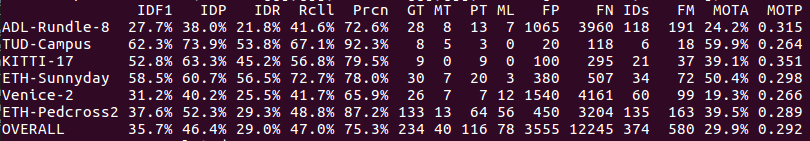
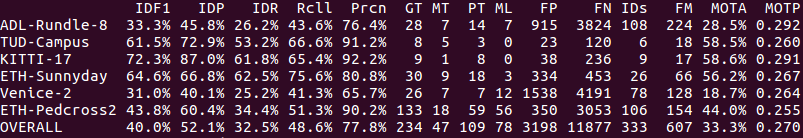
update README and input sequence

diff --git a/src/main.cpp b/src/main.cpp
@@ -211,16 +211,11 @@ int main(int argc, const char *argv[]) {
         enable_display_flag = true;
     }
 
-// TODO: Figure out why KITTI-13 will crash
-
-//    std::vector<std::string> dataset_names{"ADL-Rundle-6", "ADL-Rundle-8", "ETH-Bahnhof",
-//                                           "ETH-Pedcross2", "ETH-Sunnyday", "KITTI-13",
-//                                           "KITTI-17", "PETS09-S2L1", "TUD-Campus",
-//                                           "TUD-Stadtmitte", "Venice-2"};
-
-    std::vector<std::string> dataset_names{"ADL-Rundle-8", "ETH-Pedcross2", "ETH-Sunnyday",
-                                           "KITTI-17", "TUD-Campus", "Venice-2"};
-
+    // TODO: Figure out why KITTI-13 will crash
+    std::vector<std::string> dataset_names{"ADL-Rundle-6", "ADL-Rundle-8", "ETH-Bahnhof",
+                                           "ETH-Pedcross2", "ETH-Sunnyday", "KITTI-13",
+                                           "KITTI-17", "PETS09-S2L1", "TUD-Campus",
+                                           "TUD-Stadtmitte", "Venice-2"};
 
     for (const auto& dataset_name : dataset_names) {
         // Open label file
@@ -391,9 +386,7 @@ int main(int argc, const char *argv[]) {
                 cv::imshow("Tracking", img_tracking);
 
                 // Delay in ms
-                //auto key = cv::waitKey(static_cast<int>(dt * 1000));
-                auto key = cv::waitKey(0);
-
+                auto key = cv::waitKey(33);
 
                 // Exit if ESC pressed
                 if (27 == key) {

diff --git a/README.md b/README.md
@@ -1,5 +1,5 @@
 ## Introduction
-C++ implementation of SORT: Simple, online, and realtime tracking of multiple objects in a video sequence.
+C++ implementation of SORT: Simple, online, and real-time tracking of multiple objects in a video sequence.
 
 Kuhn-Munkres (Hungarian) Algorithm in C++ is forked from:
 https://github.com/saebyn/munkres-cpp
@@ -40,7 +40,10 @@ To run the tracker with the provided detections and visualize the results:
     $ mkdir build && cd "$_"
     $ cmake .. && make
     $ cd /path/to/sort-cpp/bin
+    # Without display
     $ ./sort-cpp
+    # With display
+    $ ./sort-cpp -d
     ```
 
 
@@ -102,18 +105,9 @@ $ python -m motmetrics.apps.eval_motchallenge mot_benchmark/train output/
 
 ![Screenshot-1](docs/2.png)
 
-
-
 FPS is around 1900 with Debug build.
 
 
-
-## TODO
-
-- [ ] Fine-tuning KF
-- [ ] Add gifs
-
- 
 
 ## References
 1. https://github.com/abewley/sort
